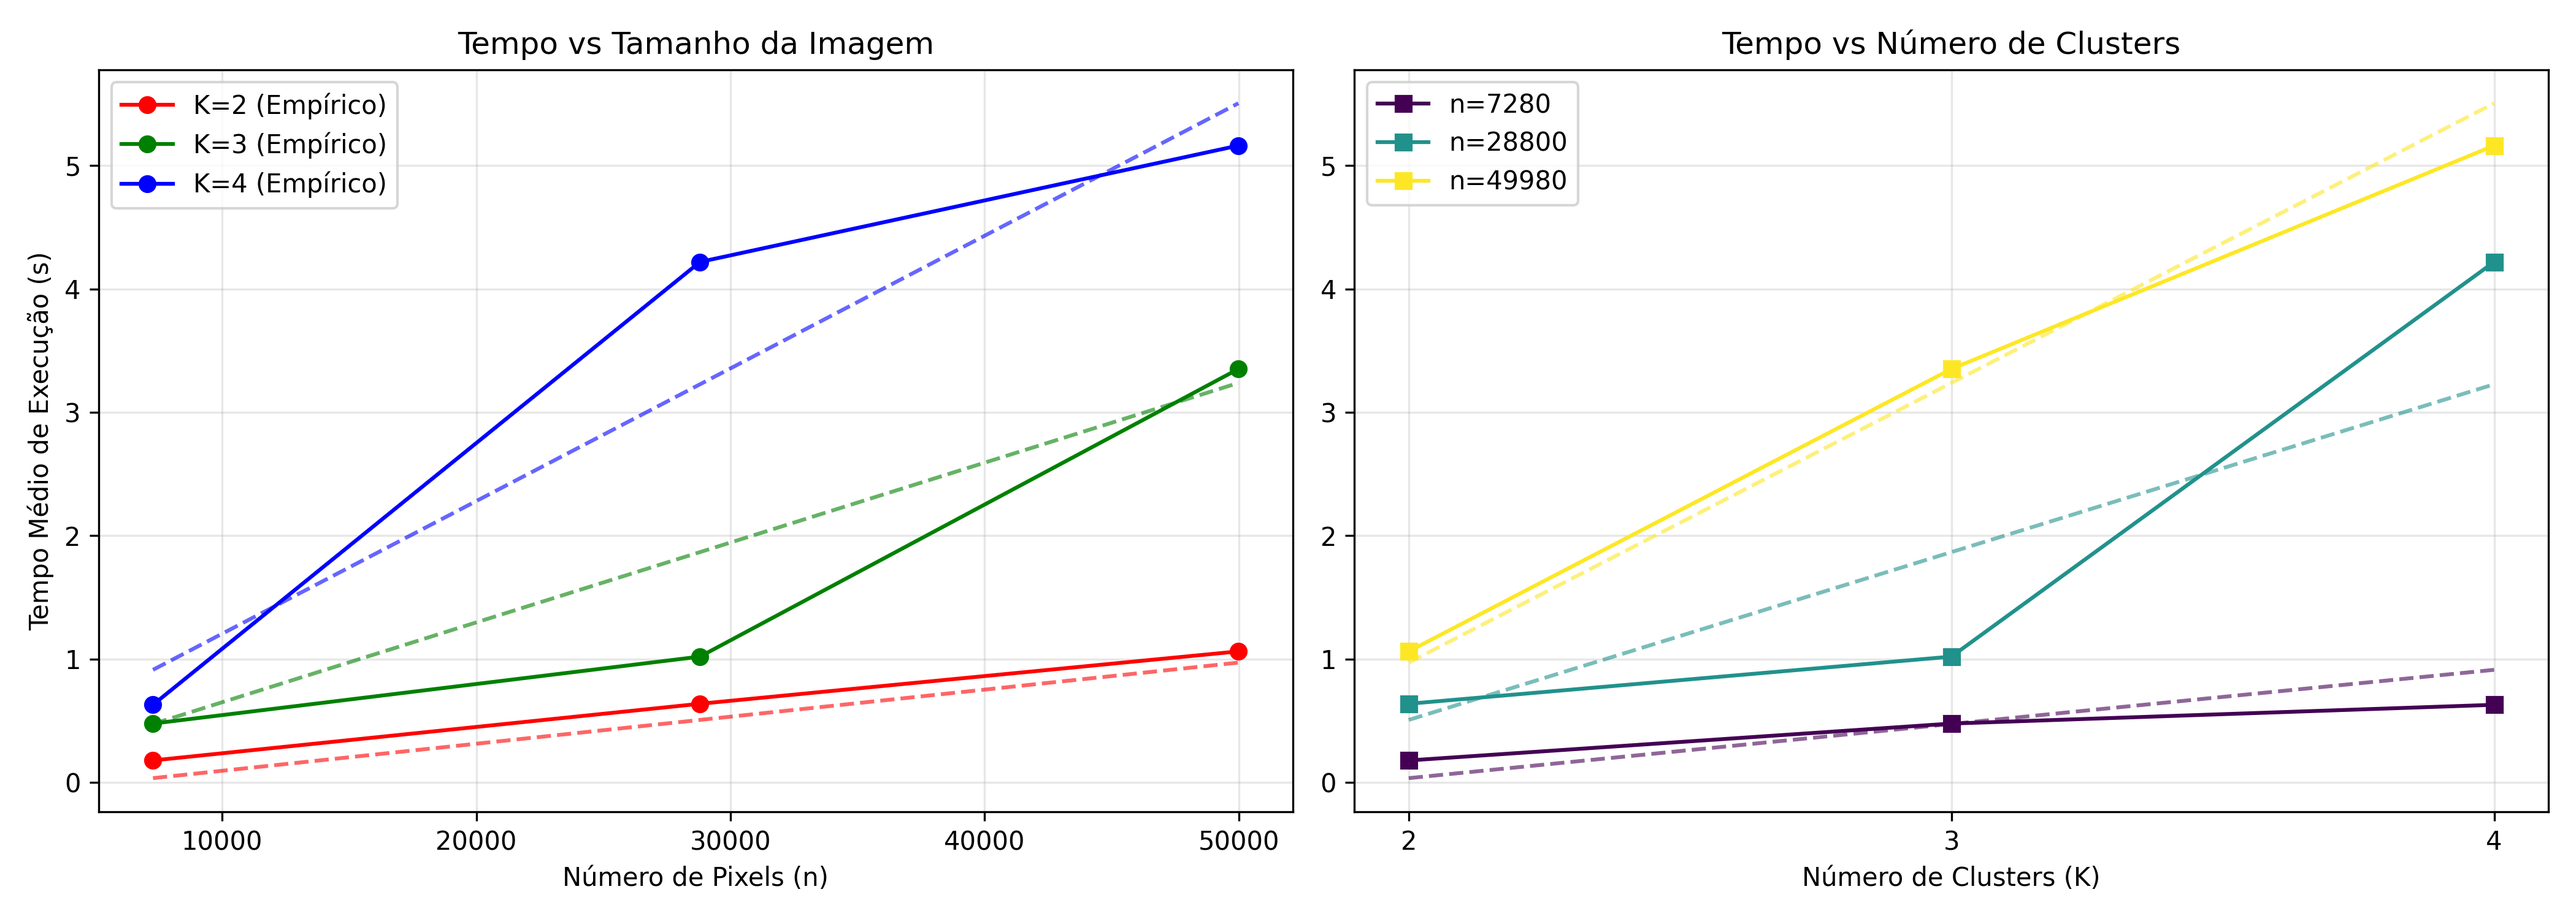
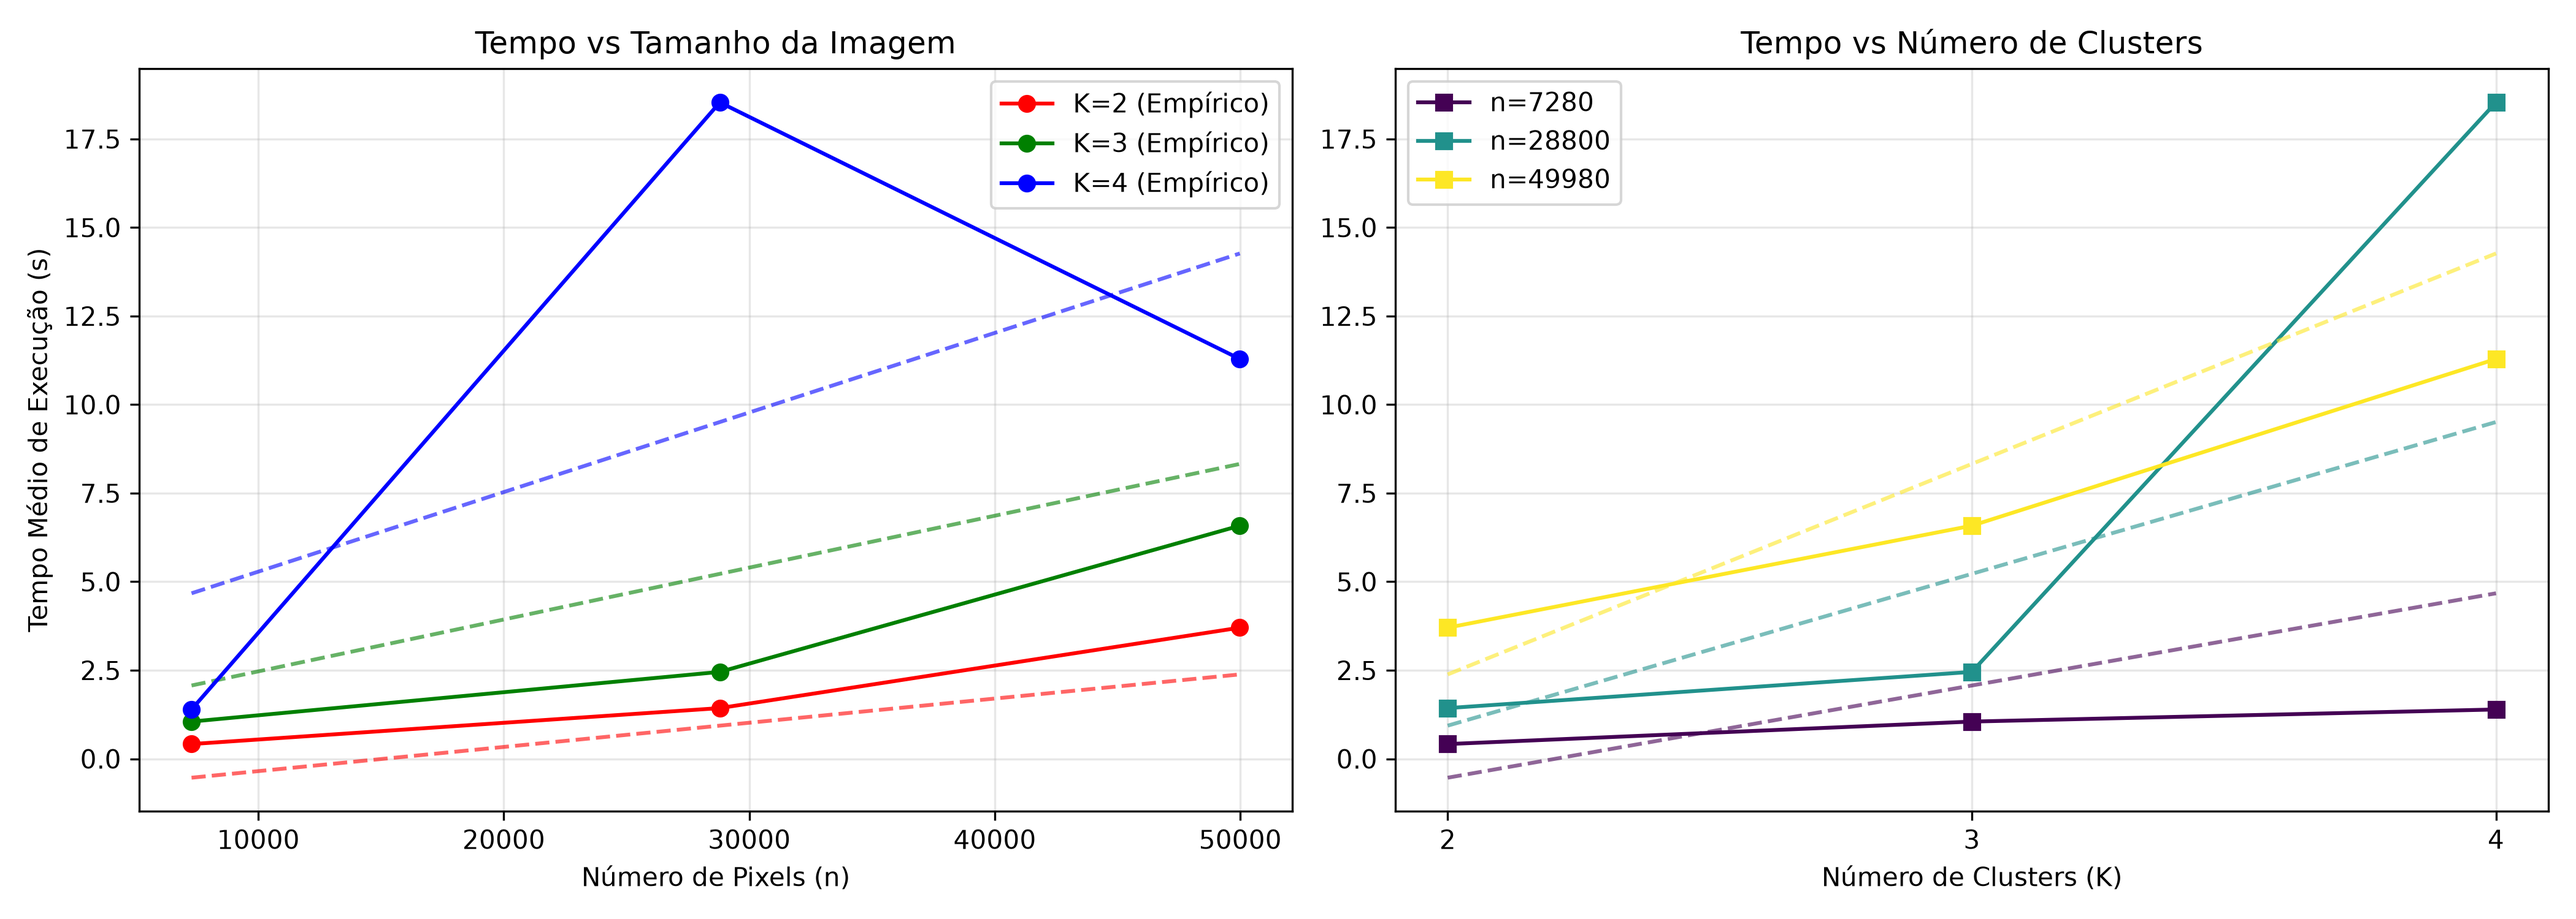
correcao do experimento com FCM puro

diff --git a/experimentador_EP_FCMPuro.py b/experimentador_EP_FCMPuro.py
@@ -17,11 +17,12 @@ import random
 from PIL import Image
 import matplotlib.pyplot as plt
 
-def fcm_processar_imagem(img, K, m=2.0, max_iter=100, epsilon=0.01):
+def segmenta_imagem(imagem_array, K, m=2.0, max_iter=100, epsilon=0.01):
     """
-    Executa o pipeline completo do FCM Puro com proteções contra índice inválido e divisão por zero.
+    Executa a segmentação FCM recebendo a matriz da imagem (numpy array) e o número de clusters K.
     """
-    
+    # 1. Converte o array NumPy para imagem PIL e garante 3 canais (RGB)
+    img = Image.fromarray(imagem_array).convert("RGB")
     largura, altura = img.size
     
     # Extração segura dos pixels da imagem
@@ -211,7 +212,7 @@ if __name__ == "__main__":
         t0 = time.perf_counter()
         
         # ATENÇÃO: Agora pegando os 3 retornos corretamente
-        centroides, pertinencias, imagem_segmentada = fcm_processar_imagem(
+        centroides, pertinencias, imagem_segmentada = segmenta_imagem(
             img=imagem,
             K=K_clusters,
             m=fator_m,
